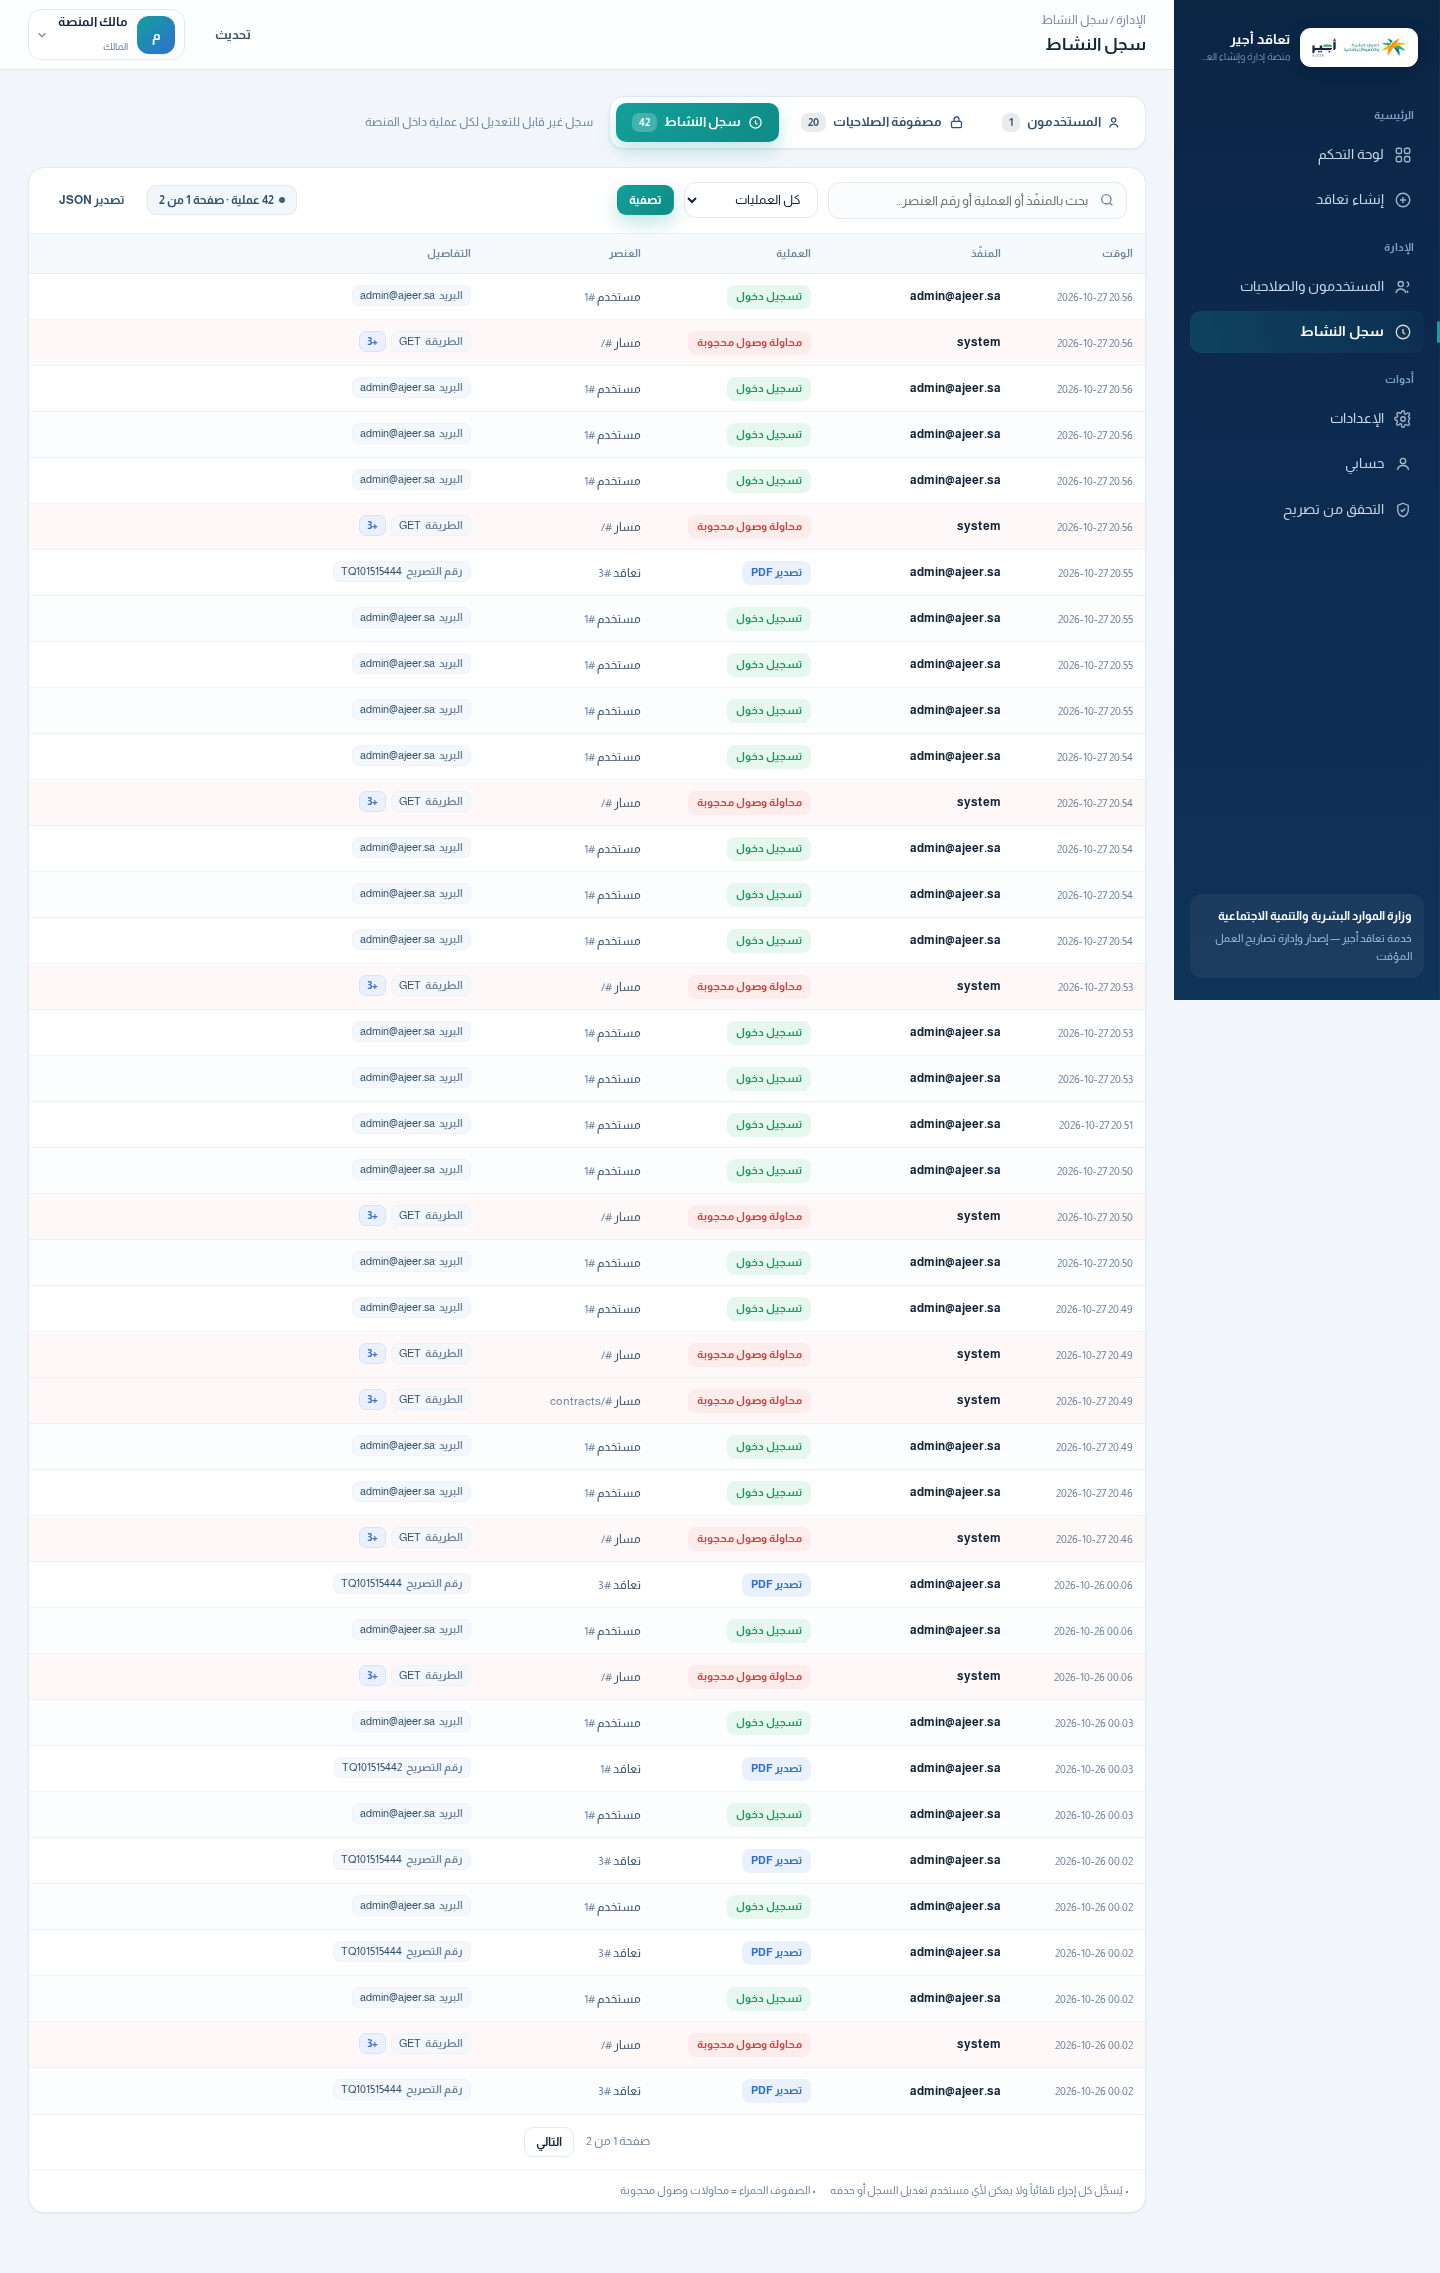
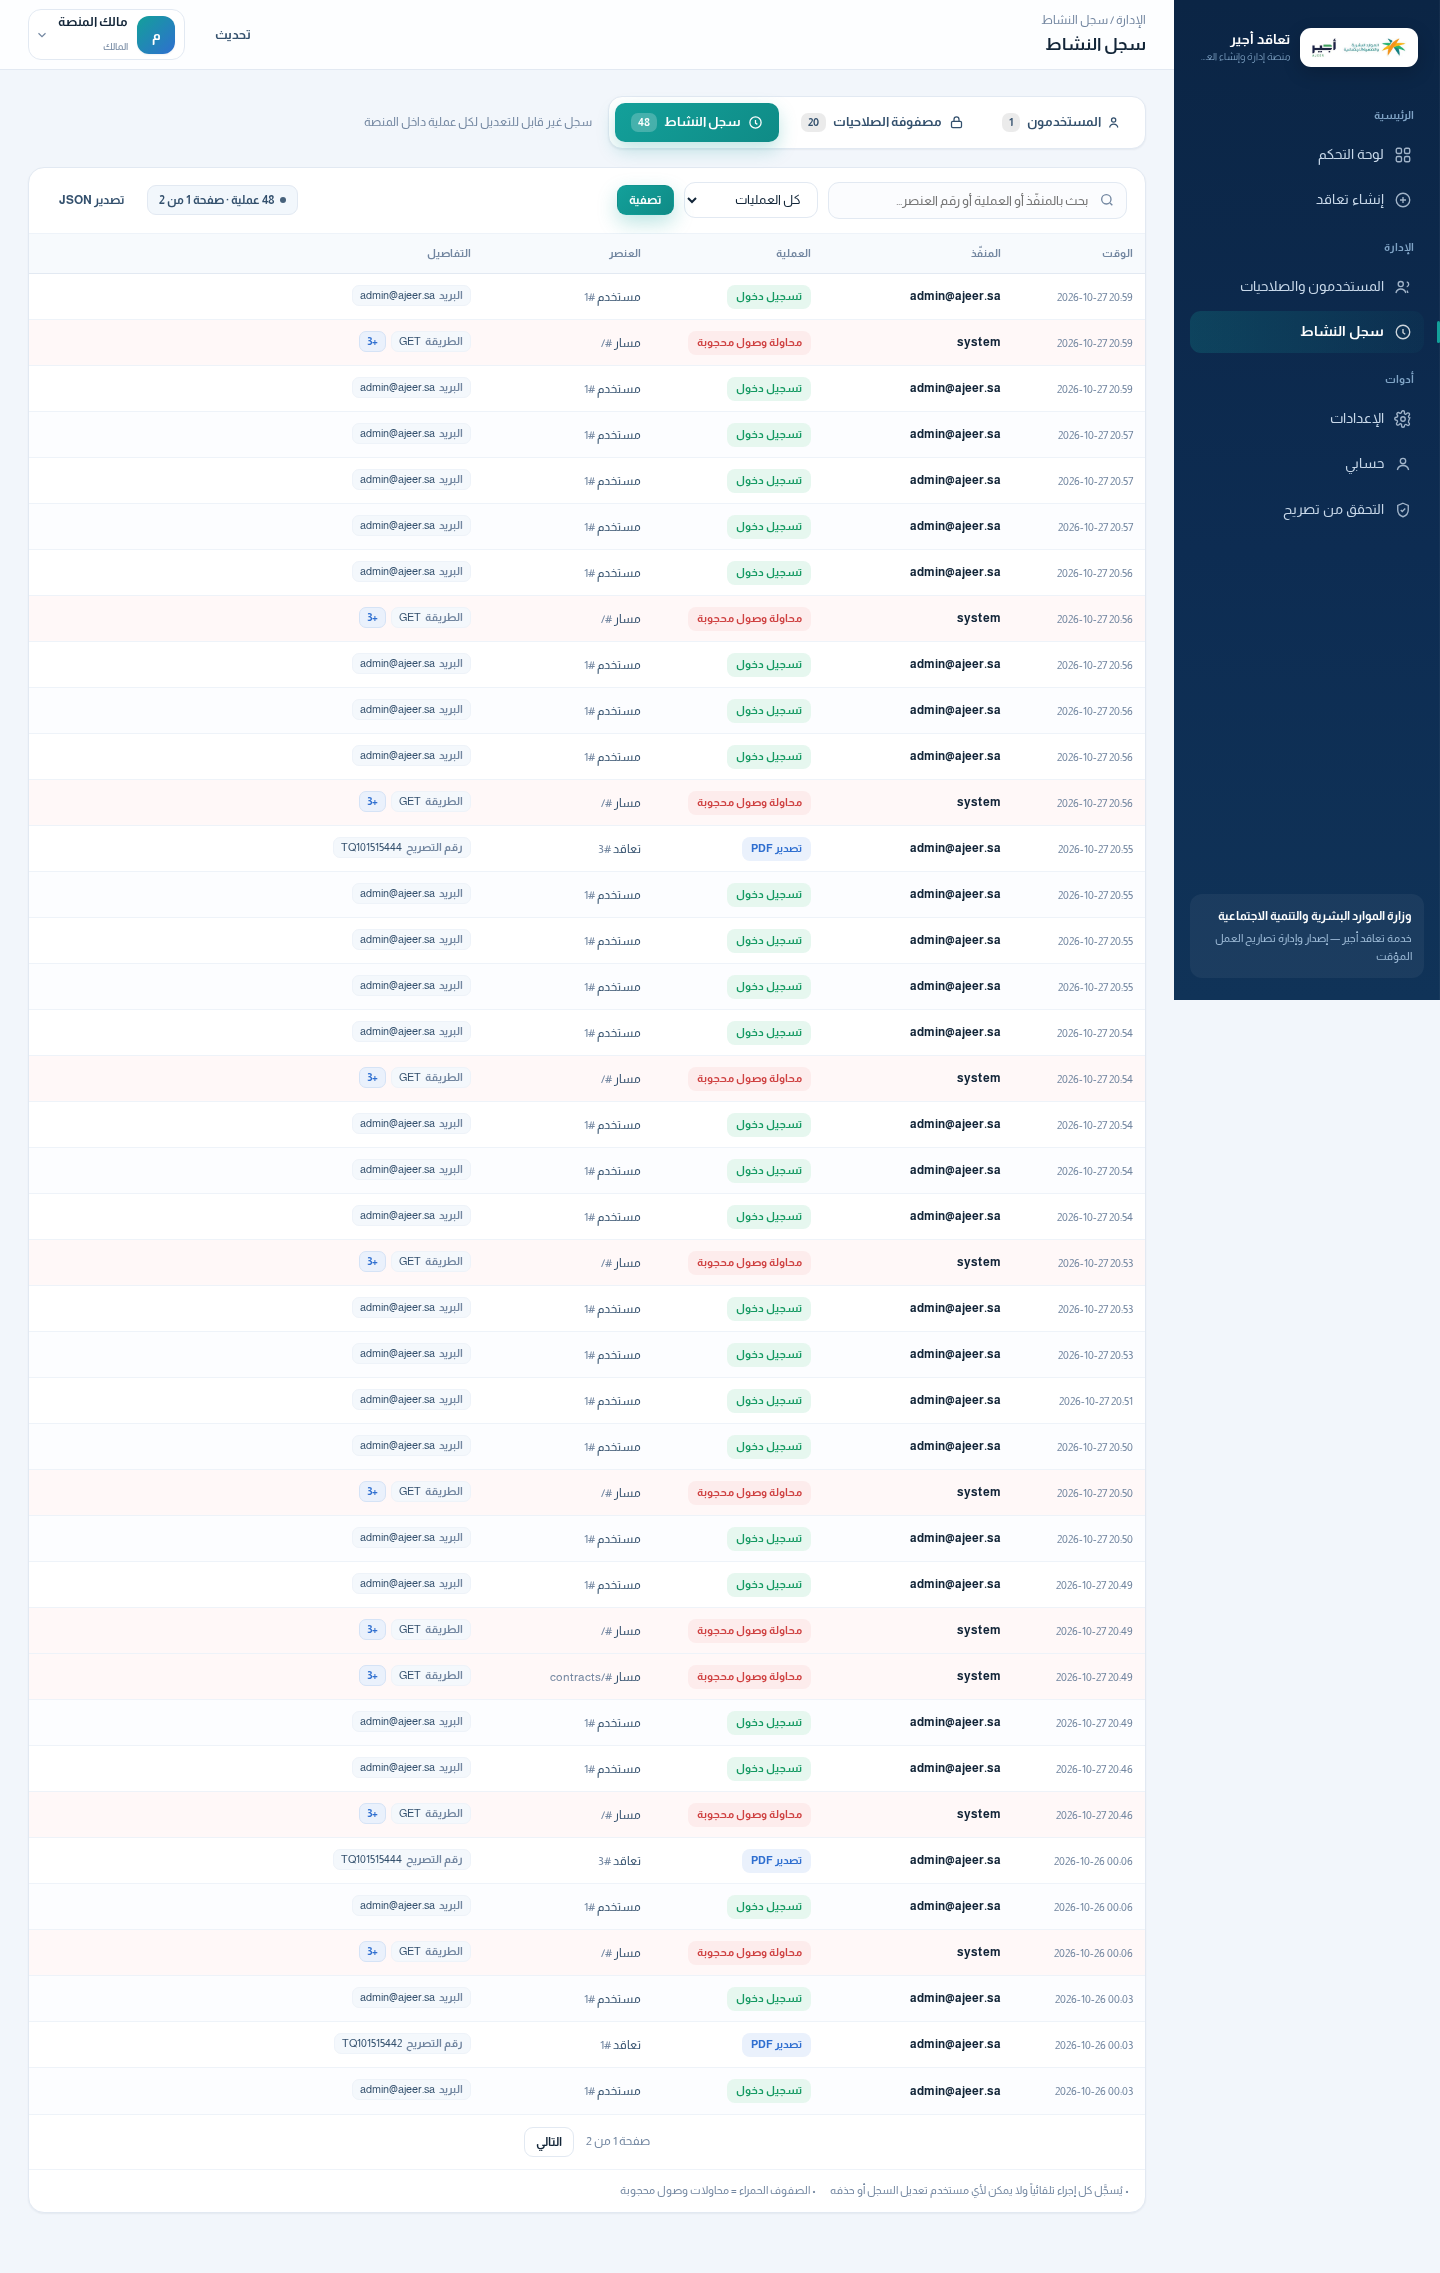
polish(audit): full detail chip inline, centered empty rail states

diff --git a/backend/templates/dashboard.html b/backend/templates/dashboard.html
@@ -18,12 +18,13 @@
   @media (max-width:1120px){.dash-cards{grid-template-columns:repeat(2,minmax(0,1fr))}}
   @media (max-width:760px){.dash-cards{grid-template-columns:1fr}}
   .card table.list td .who .nm{white-space:nowrap}
-  .rail{background:#fff;border:1px solid var(--line);border-radius:var(--r);box-shadow:var(--shadow-sm);overflow:hidden}
+  .rail{background:#fff;border:1px solid var(--line);border-radius:var(--r);box-shadow:var(--shadow-sm);overflow:hidden;display:flex;flex-direction:column}
   .rail-h{display:flex;align-items:center;gap:8px;padding:12px 14px;border-bottom:1px solid var(--line-2)}
   .rail-h b{font-size:12.5px}
   .rail-h .sp{flex:1}
   .rail-h a{font-size:11px;color:var(--teal-2);font-weight:700}
-  .rail-b{padding:8px}
+  .rail-b{padding:8px;display:flex;flex-direction:column;flex:1}
+  .rail-empty{margin:auto}
   .qact{display:flex;align-items:center;gap:10px;padding:9px 10px;border-radius:10px;font-size:12.5px;font-weight:700;color:var(--ink)}
   .qact:hover{background:#f4f9fe}
   .qact .qi{width:30px;height:30px;border-radius:9px;display:flex;align-items:center;justify-content:center;

diff --git a/backend/templates/admin.html b/backend/templates/admin.html
@@ -172,8 +172,8 @@
   .tbl.audit .eid{color:var(--muted)}
   .tbl.audit .mono{font-size:11px;color:var(--muted);direction:ltr;unicode-bidi:embed;font-variant-numeric:tabular-nums}
   .tbl.audit .who{font-size:12px;font-weight:700;color:var(--ink)}
-  .tbl.audit .dets{display:inline-flex;gap:4px;flex-wrap:nowrap;vertical-align:middle;max-width:62%}
-  .tbl.audit .dets .dt{max-width:100%}
+  .tbl.audit .dets{display:inline-flex;gap:4px;flex-wrap:nowrap;vertical-align:middle}
+  .tbl.audit .dets .dt{max-width:250px}
   .tbl.audit .dt.more{vertical-align:middle}
   .tbl.audit .dash{color:#c9d4e0}
   .tbl.audit tbody tr:nth-child(even) td{background:#fcfdff}
